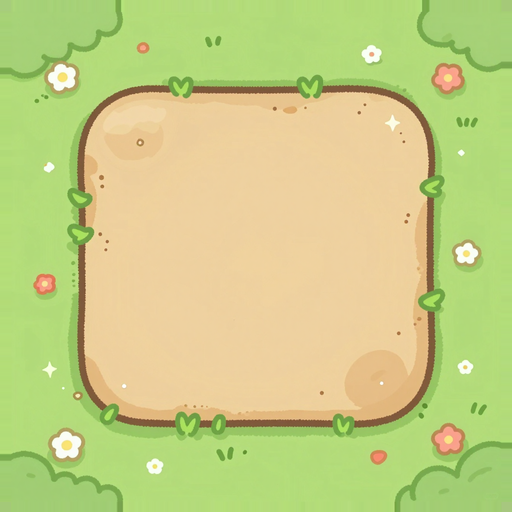
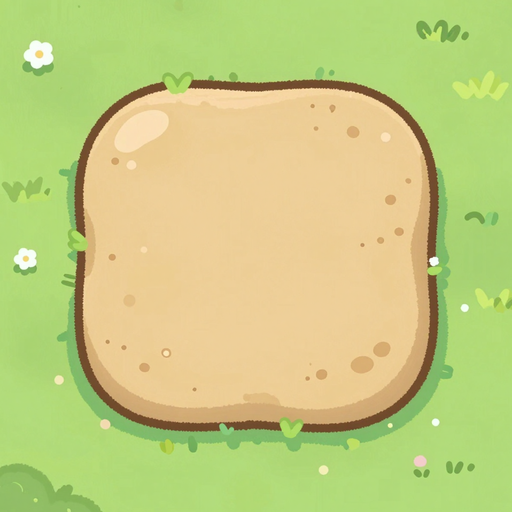
alfa a27922b: Merge: loseta nueva de Yoshi con las esquinas más redondas y el trazo fino

diff --git a/alfa/index.html b/alfa/index.html
@@ -10,10 +10,10 @@
 <link rel="preconnect" href="https://fonts.googleapis.com">
 <link rel="preconnect" href="https://fonts.gstatic.com" crossorigin>
 <link rel="stylesheet" href="https://fonts.googleapis.com/css2?family=Baloo+2:wght@600;700;800&family=Luckiest+Guy&display=swap">
-<link rel="stylesheet" href="core/css/base.css?v=249dda4">
-<link rel="stylesheet" href="biblioteca/tienda.css?v=249dda4">
-<link rel="stylesheet" href="novedades/ventana.css?v=249dda4">
-<link rel="stylesheet" href="biblioteca/votos.css?v=249dda4">
+<link rel="stylesheet" href="core/css/base.css?v=a27922b">
+<link rel="stylesheet" href="biblioteca/tienda.css?v=a27922b">
+<link rel="stylesheet" href="novedades/ventana.css?v=a27922b">
+<link rel="stylesheet" href="biblioteca/votos.css?v=a27922b">
 <style>
   /* la entrada de la web: una tarjeta por juego, con los colores y las letras de core */
   body { overflow: auto; touch-action: auto; align-items: flex-start; background-repeat: no-repeat; background-attachment: fixed; }
@@ -61,7 +61,7 @@
 </style>
 </head>
 <body>
-<script src="menu.js?v=249dda4" data-base="" data-core="1" data-pagina=""></script>
+<script src="menu.js?v=a27922b" data-base="" data-core="1" data-pagina=""></script>
 <div class="nov-fondo" id="novedades" hidden>
   <div class="nov-caja" role="dialog" aria-modal="true" aria-labelledby="nov-titulo">
     <div class="nov-cabeza"><h2 class="ol" id="nov-titulo">NOVEDADES</h2><p id="nov-sub"></p></div>
@@ -333,8 +333,8 @@
   </section>
   <p class="note" id="pie-fansof">Fans Of™ · © 2026 Arkioner y Pepins · MicroBlizz · Todos los derechos reservados</p>
 </main>
-<script src="core/js/nucleo.js?v=0-a667.249dda4"></script>
-<script src="core/js/novedades.js?v=249dda4"></script>
+<script src="core/js/nucleo.js?v=0-a668.a27922b"></script>
+<script src="core/js/novedades.js?v=a27922b"></script>
 <script>
 // La cuenta de la web es la misma de los juegos (core/js/sistema/cuenta.js, mismo navegador = misma sesión). Aquí no hay partida que subir.
 const AJUSTES = { id: 'web', guardado: 'fansof-web' }, SAVE_KEY = AJUSTES.guardado, SAVE = {};
@@ -343,7 +343,7 @@ const HOOKS = {};
 function hook(name, fn) { (HOOKS[name] = HOOKS[name] || []).push(fn); }
 function fire(name, ...a) { let out = ''; for (const fn of HOOKS[name] || []) { const r = fn(...a); if (typeof r === 'string') out += r; } return out; }
 </script>
-<script src="core/js/sistema/cuenta.js?v=249dda4"></script>
+<script src="core/js/sistema/cuenta.js?v=a27922b"></script>
 <script>NUCLEO.idiomaSolo({ en: ['core/idioma/en-raiz.js', 'novedades/en.js', 'biblioteca/en.js','games/rumble/idioma/en-7.js', 'games/td/idioma/en-2.js', 'games/survivors/idioma/en.js', 'games/crush/idioma/en-raiz.js', 'games/jump/idioma/en-raiz.js', 'games/taxi/idioma/en-raiz.js', 'games/dark/idioma/en-raiz.js', 'games/nova/idioma/en-raiz.js', 'demos/beams/idioma/en-raiz.js', 'demos/snakes/idioma/en-raiz.js', 'demos/merge/idioma/en-raiz.js', 'demos/swipe/idioma/en-raiz.js', 'demos/vikings/idioma/en-raiz.js', 'demos/goose/idioma/en-raiz.js', 'demos/asalto/idioma/en-raiz.js', 'demos/auto/idioma/en-raiz.js', 'games/island/idioma/en-raiz.js', 'demos/rumble-3d/idioma/en-raiz.js', 'demos/roguelite/idioma/en-raiz.js', 'demos/tactics-advance/idioma/en-raiz.js', 'games/rouflage/idioma/en-raiz.js', 'demos/dungeons/idioma/en-raiz.js', 'games/karts/idioma/en-raiz.js', 'demos/recruit/idioma/en-raiz.js', 'demos/terminal-shock/idioma/en-raiz.js', 'games/ratkov/idioma/en-raiz.js'] })</script>
 <script>
 // La versión y las novedades salen de los archivos de cada juego, así que esta página nunca se queda atrás.
@@ -369,14 +369,14 @@ const fail = id => () => {
 };
 
 </script>
-<script src="core/js/proximamente.js?v=249dda4"></script>
-<script src="novedades/ventana.js?v=249dda4"></script>
-<script src="biblioteca/tienda.js?v=249dda4"></script>
-<script src="core/js/sistema/beta.js?v=249dda4"></script>
-<script src="biblioteca/cuenta-web.js?v=249dda4"></script>
-<script src="biblioteca/votos.js?v=249dda4"></script>
-<script src="biblioteca/alfa.js?v=249dda4"></script>
-<script src="core/js/sistema/analitica.js?v=249dda4"></script>
-<script src="pie.js?v=249dda4" defer></script>
+<script src="core/js/proximamente.js?v=a27922b"></script>
+<script src="novedades/ventana.js?v=a27922b"></script>
+<script src="biblioteca/tienda.js?v=a27922b"></script>
+<script src="core/js/sistema/beta.js?v=a27922b"></script>
+<script src="biblioteca/cuenta-web.js?v=a27922b"></script>
+<script src="biblioteca/votos.js?v=a27922b"></script>
+<script src="biblioteca/alfa.js?v=a27922b"></script>
+<script src="core/js/sistema/analitica.js?v=a27922b"></script>
+<script src="pie.js?v=a27922b" defer></script>
 </body>
 </html>

diff --git a/alfa/games/rouflage/index.html b/alfa/games/rouflage/index.html
@@ -10,7 +10,7 @@
 <link rel="preconnect" href="https://fonts.googleapis.com">
 <link rel="preconnect" href="https://fonts.gstatic.com" crossorigin>
 <link rel="stylesheet" href="https://fonts.googleapis.com/css2?family=Baloo+2:wght@600;700;800&family=Luckiest+Guy&display=swap">
-<script src="../../core/js/nucleo.js?v=0.2.63-a667.249dda4"></script>
+<script src="../../core/js/nucleo.js?v=0.2.63-a668.a27922b"></script>
 <script>NUCLEO.estilos('../../core/css/base.css', '../../core/css/menus.css', '../../core/css/menus-extra.css')</script>
 <script>NUCLEO.estilos('estilo.css', 'estilo-taller.css', 'estilo-pantallas.css', 'estilo-pvp.css', 'estilo-armario.css', 'estilo-menus.css', 'estilo-misiones.css', 'estilo-escenario.css', 'estilo-votos.css', 'estilo-gacha.css', 'estilo-compra.css', 'estilo-fin.css', 'estilo-talentos.css', 'estilo-chat.css', 'estilo-titulo.css', 'estilo-barra.css', 'estilo-sala-viva.css', 'estilo-obra.css', 'estilo-ayuda.css', 'estilo-carga.css')</script>      <!-- la intro, la última: pisa el #carga de estilo.css (antes iba en línea dentro de #carga) -->
 </head>

diff --git a/alfa/demos/merge/js/losetas.js b/alfa/demos/merge/js/losetas.js
@@ -10,7 +10,7 @@
 // O = cuánta tierra de más lleva cada pieza por dentro, que se funde con el centro; F = cuánta hierba se desvanece por fuera, para fundirse con el suelo;
 // IF = hasta dónde sale la esquina de la isla hacia la tierra; IR = hasta dónde entra en su hierba (su esquina redonda); C = desde dónde se toma el centro liso.
 // En partes de casilla: I = el margen de hierba que deja la tierra dentro de su casilla (como en Triple Town); A = lo ancho que se pinta el borde B.
-const MG_LOSA = { de: '', piezas: null, B: 0.2, E: 0.27, O: 0.06, F: 0.14, IF: 0.08, IR: 0.26, C: 0.27, I: 0.2, A: 0.22 };
+const MG_LOSA = { de: '', piezas: null, B: 0.2, E: 0.38, O: 0.06, F: 0.14, IF: 0.08, IR: 0.26, C: 0.34, I: 0.2, A: 0.22 };
 // recorta una zona (x, y, w, h) de una imagen y la desvanece por los lados que se le digan: f = [izquierda, derecha, arriba, abajo], en px de la imagen
 function mgLosaTrozo(im, x, y, w, h, f) {
   const cv = document.createElement('canvas'); cv.width = Math.max(1, Math.round(w)); cv.height = Math.max(1, Math.round(h));

diff --git a/alfa/games/karts/index.html b/alfa/games/karts/index.html
@@ -8,7 +8,7 @@
 <meta name="description" content="Fans of Karts (juego): carreras de karts en pixel art de consola portátil con los líderes de Fans of Rumble. Tres pistas, seis pilotos, objetos con mala idea y Microblizz, que ha comprado la carrera.">
 <link rel="icon" type="image/png" href="img/icon-192.png">
 <link rel="apple-touch-icon" href="img/icon-192.png">
-<script src="../../core/js/nucleo.js?v=0.7.15-a667.249dda4"></script>
+<script src="../../core/js/nucleo.js?v=0.7.15-a668.a27922b"></script>
 <script>NUCLEO.estilos('../../core/css/base.css', '../../core/css/menus.css', '../../core/css/menus-tienda.css', '../../core/css/menus-extra.css', 'css/tienda.css', 'css/pvp.css')</script>
 <link rel="stylesheet" href="https://fonts.googleapis.com/css2?family=Baloo+2:wght@600;700;800&family=Luckiest+Guy&display=swap">
 <style>

diff --git a/alfa/games/dark/index.html b/alfa/games/dark/index.html
@@ -12,7 +12,7 @@
 <link rel="stylesheet" href="https://fonts.googleapis.com/css2?family=Baloo+2:wght@600;700;800&family=Luckiest+Guy&family=Press+Start+2P&family=Pixelify+Sans:wght@400;600;700&display=swap">
 <link rel="stylesheet" href="css/dark.css?v=0.2.4">
 <!-- Prototipo: no usa NUCLEO (tiene su propia partida guardada). Carga de core el arte, la música, los efectos y las cifras del Rumble.
-     VERSIÓN para desplegar.py (que la busca así): nucleo.js?v=0.2.7-a667.249dda4' (aquí solo se anota; súbela junto al ?v= de los scripts). -->
+     VERSIÓN para desplegar.py (que la busca así): nucleo.js?v=0.2.7-a668.a27922b' (aquí solo se anota; súbela junto al ?v= de los scripts). -->
 </head>
 <body>
 <canvas id="cv" aria-label="Mazmorra"></canvas>

diff --git a/alfa/games/rumble/index.html b/alfa/games/rumble/index.html
@@ -16,7 +16,7 @@
 <link rel="preconnect" href="https://fonts.gstatic.com" crossorigin>
 <link rel="stylesheet" href="https://fonts.googleapis.com/css2?family=Baloo+2:wght@600;700;800&family=Luckiest+Guy&display=swap">
 <!-- core/js/nucleo.js carga lo común y el juego. LA VERSIÓN SE ESCRIBE SOLO AQUÍ, en su ?v= -->
-<script src="../../core/js/nucleo.js?v=0.9.158-a667.249dda4"></script>
+<script src="../../core/js/nucleo.js?v=0.9.158-a668.a27922b"></script>
 <script>NUCLEO.estilos('../../core/css/menus.css', 'css/estilos-partida.css', 'css/estilos-extra.css', 'css/arena.css', '../../core/css/biblioteca.css', 'css/facciones-y-jefes.css', '../../core/css/clasificacion.css', 'css/frases.css', 'css/mitica.css', 'css/paletas.css')</script>
 
 </head>

diff --git a/alfa/games/jump/index.html b/alfa/games/jump/index.html
@@ -12,7 +12,7 @@
 <link rel="preconnect" href="https://fonts.gstatic.com" crossorigin>
 <link rel="stylesheet" href="https://fonts.googleapis.com/css2?family=Baloo+2:wght@600;700;800&family=Luckiest+Guy&display=swap">
 <!-- ?v= es la versión del juego (la misma en la web y en la app): súbela al publicar y pon su entrada en js/novedades.js -->
-<script src="../../core/js/nucleo.js?v=0.3.16-a667.249dda4"></script>
+<script src="../../core/js/nucleo.js?v=0.3.16-a668.a27922b"></script>
 <script>NUCLEO.estilos('../../core/css/base.css', '../../core/css/menus.css')</script>
 <style>
 /* Fans of Jump: un solo canvas a la resolución real de la pantalla, con los dibujos 3D. El mundo mide unos 200 de ancho y se

diff --git a/alfa/games/decks/index.html b/alfa/games/decks/index.html
@@ -15,7 +15,7 @@
 <link rel="preconnect" href="https://fonts.gstatic.com" crossorigin>
 <link rel="stylesheet" href="https://fonts.googleapis.com/css2?family=Baloo+2:wght@600;700;800&family=Luckiest+Guy&display=swap">
 <!-- core/js/nucleo.js carga lo común y el juego. LA VERSIÓN SE ESCRIBE SOLO AQUÍ, en su ?v= -->
-<script src="../../core/js/nucleo.js?v=0.2.21-a667.249dda4"></script>
+<script src="../../core/js/nucleo.js?v=0.2.21-a668.a27922b"></script>
 <script>NUCLEO.estilos('../../core/css/base.css', '../../core/css/menus.css', 'css/decks.css', 'css/decks-reunion.css', 'css/decks-anim.css', 'css/decks-campana.css', 'css/decks-lideres.css')</script>
 </head>
 <body>

diff --git a/alfa/demos/goose/index.html b/alfa/demos/goose/index.html
@@ -10,7 +10,7 @@
 <link rel="preconnect" href="https://fonts.gstatic.com" crossorigin>
 <link rel="stylesheet" href="https://fonts.googleapis.com/css2?family=Pixelify+Sans:wght@500;700&family=Pirata+One&display=swap">
 <!-- ?v= es la versión de la demo: súbela al publicar -->
-<script src="../../core/js/nucleo.js?v=0.3.1-a667.249dda4"></script>
+<script src="../../core/js/nucleo.js?v=0.3.1-a668.a27922b"></script>
 <script>NUCLEO.estilos('../../core/css/base.css', '../../core/css/menus.css')</script>
 <style>
 /* Fans of Goose: un solo canvas en vertical, a la resolución real del móvil. El mundo mide 200 de ancho. */

diff --git a/alfa/games/ratkov/index.html b/alfa/games/ratkov/index.html
@@ -13,7 +13,7 @@
 <link rel="preconnect" href="https://fonts.gstatic.com" crossorigin>
 <link rel="stylesheet" href="https://fonts.googleapis.com/css2?family=VT323&family=Russo+One&display=swap">
 <script src="https://cdnjs.cloudflare.com/ajax/libs/three.js/r128/three.min.js"></script>
-<script src="../../core/js/nucleo.js?v=0.2.29-a667.249dda4"></script>
+<script src="../../core/js/nucleo.js?v=0.2.29-a668.a27922b"></script>
 <script>NUCLEO.estilos('../../core/css/base.css', '../../core/css/menus.css')</script>
 <link rel="stylesheet" href="estilo.css?v=0.2.3">
 <link rel="stylesheet" href="estilo-refugio.css?v=0.2.3">

diff --git a/alfa/games/survivors/index.html b/alfa/games/survivors/index.html
@@ -15,7 +15,7 @@
 <link rel="preconnect" href="https://fonts.gstatic.com" crossorigin>
 <link rel="stylesheet" href="https://fonts.googleapis.com/css2?family=Baloo+2:wght@600;700;800&family=Luckiest+Guy&display=swap">
 <!-- core/js/nucleo.js carga lo común y el juego. LA VERSIÓN SE ESCRIBE SOLO AQUÍ, en su ?v= -->
-<script src="../../core/js/nucleo.js?v=0.1.71-a667.249dda4"></script>
+<script src="../../core/js/nucleo.js?v=0.1.71-a668.a27922b"></script>
 <script>NUCLEO.estilos('../../core/css/base.css', '../../core/css/menus.css', 'css/survivors.css', '../../core/css/biblioteca.css')</script>
 </head>
 <body>

diff --git a/alfa/games/td/index.html b/alfa/games/td/index.html
@@ -15,7 +15,7 @@
 <link rel="preconnect" href="https://fonts.gstatic.com" crossorigin>
 <link rel="stylesheet" href="https://fonts.googleapis.com/css2?family=Baloo+2:wght@600;700;800&family=Luckiest+Guy&display=swap">
 <!-- core/js/nucleo.js carga lo común y el juego. LA VERSIÓN SE ESCRIBE SOLO AQUÍ, en su ?v= -->
-<script src="../../core/js/nucleo.js?v=0.13.87-a667.249dda4"></script>
+<script src="../../core/js/nucleo.js?v=0.13.87-a668.a27922b"></script>
 <script>NUCLEO.estilos('../../core/css/base.css', 'css/td.css', '../../core/css/menus.css', '../../core/css/biblioteca.css')</script>
 </head>
 <body>
